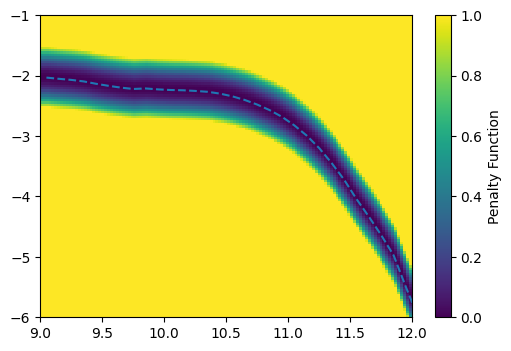
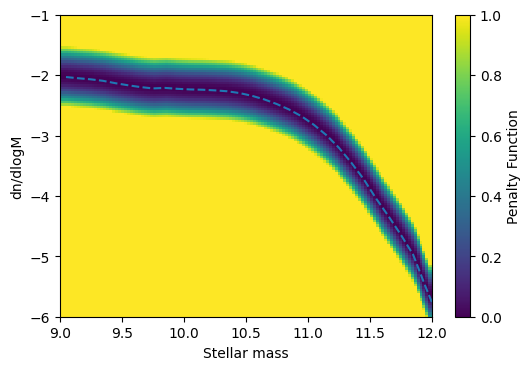
Minor changes, axis labels, typos, changes to text

Changed region(s): [[0.0, 0.0285, 0.998, 0.9687]]

diff --git a/paper/paper.md b/paper/paper.md
@@ -45,15 +45,15 @@ These parameters need to be tuned to calibrate against observational data.
 At odds with this, cosmological simulations are computationally expensive,
 with the cheapest viable runs costing thousands of CPU hours, and running up to
 tens of millions for the largest volumes at the highest resolutions.
-This makes the use of cosmological simulations in state of the of the art
+This makes the use of cosmological simulations in state-of-the-art
 fitting pipelines (e.g. MCMC), where tens of thousands to millions of
 evaluations of the model are required to explore the parameter space,
 computationally unfeasable. In order to get a statistical grip on the models
 of cosmology and galaxy formation, a better solution is needed.
 
 This problem is a major limiting factor in "calibration" of the sub-resolution
-(subgrid) models that are often used. Works like Illustris, EAGLE, BAHAMAS, and
-Illustris-TNG [@Vogelsberger2014; @Crain2015; @McCarthy2017; @Pillepich2018] are
+(subgrid) models that are often used. Works like Illustris [@Vogelsberger2014], 
+EAGLE [@Crain2015], BAHAMAS [@McCarthy2017], and Illustris-TNG [@Pillepich2018] are
 able to "match" observed relations by eye, but a statistical ground for the
 chosen parameters is missing. This poses a signifcant problem for cosmology,
 where a deeper understanding of our subgrid models will be required to
@@ -68,14 +68,14 @@ makes it feasable to use methods like MCMC based purely on simulation results.
 
 # Emulator Requirements
 
-For emulation in hydro simulations we are most interested in emulating
-scaling relations of the following form:
+For emulation in hydro simulations we want to use Gaussian processes to
+emulate scaling relations in the following form:
 
-$$f(x,\vec\theta)$$
+$$GP(y,x,\theta).$$
 
-where $x$ is the independent variable measured within the simulation
-itself, and $\vec\theta$ are the model parameters for that given 
-simulation. For each simulation many of these individual scaling relations can be
+We want to emulate scaling relations between a dependent variable $y$,
+as a function of the independent variable $x$ and the model parameters
+$\theta$. For each simulation many of these individual scaling relations can be
 calculated, for example the sizes of galaxies relative to their stellar mass,
 or the mass fraction of gas in galaxy clusters as a function of their mass. The
 individual object properties used in scaling realtions can be measured
@@ -86,10 +86,10 @@ for instance the energy injected by each supernovae.
 Using an emulator, we want to be able to see how many scaling relations
 change as a function of these parameters like the supernova strength.
 
-This distinction between the values obtained from
-the simulation and the parameters of the simulation model is absent
-when setting up a typical emulator, and hence setting up the training data
-correctly can pose a significant challenge.
+Emulators do not make a distinction between the independent $x$
+and the model parameters $theta$. An emulator will model $y$ as a
+function of the combined vector $\theta'=(x,\theta)$. Getting the training
+data in the correct format can pose a significant challenge.
 
 In order to save computational time, it is important
 to have an efficient sampling of the parameter space represented by $\vec\theta$. 
@@ -104,7 +104,7 @@ by hand, making proper use of emulators more difficult.
 
 # Why `swift-emulator`?
 
-Many packages cexist for Gausian process emulation, like
+Many packages exist for Gausian process emulation, like
 `george` (@Ambikasaran2015; this provides the basis for `swift-emulator`),
 `gpytorch` [@Gardner2018] and `GPy` [@gpy2014]. Additionally, a package like
 `pyDOE` [@pyDOE2012] can be used to set up efficient parameter samplings.
@@ -135,7 +135,7 @@ relations with other data, from a simple $\chi^2$ method to complex model
 discrepancy structures.
 
 `swift-emulator` is currently being used for two of the flagship simulation
-projects using the SWIFT simulation code, ranging accros five orders of 
+projects using the SWIFT simulation code, ranging across five orders of 
 magnitude in mass resolution. The package is being used to allow modern
 simulations to reporduce key observations with high accuracy.
 
@@ -149,10 +149,10 @@ project for the calibration of postprocessing models.
 # Acknowledgements
 
 We acknowledge support from the SWIFT collaboration whilst developing this
-project, with notable involvement from Richard Bower, Ian Vernon, and Matthieu
-Schaller. This work is partly funded by Vici grant 639.043.409 from the Dutch
-Research Council (NWO). This work used the DiRAC@Durham facility managed by the
-Institute for Computational Cosmology on behalf of the STFC DiRAC HPC Facility
+project, with notable involvement from Richard Bower, Ian Vernon, Joop Schaye, 
+and Matthieu Schaller. This work is partly funded by Vici grant 639.043.409 from 
+the Dutch Research Council (NWO). This work used the DiRAC@Durham facility managed 
+by the Institute for Computational Cosmology on behalf of the STFC DiRAC HPC Facility
 (www.dirac.ac.uk). The equipment was funded by BEIS capital funding via STFC
 capital grants ST/K00042X/1, ST/P002293/1, ST/R002371/1 and ST/S002502/1, Durham
 University and STFC operations grant ST/R000832/1. DiRAC is part of the National

diff --git a/docs/source/comparisons/index.rst b/docs/source/comparisons/index.rst
@@ -127,7 +127,7 @@ emulator and the data.
                                 ,independent_units=Msun
                                 ,dependent_units=Mpc**-3)
 
-    L2_penalty.plot_penalty(9,12,-6,-1,"penalty_example")
+    L2_penalty.plot_penalty(9,12,-6,-1,"penalty_example",x_label="Stellar mass",y_label="dn/dlogM")
 
 .. image:: penalty_example.png
 
@@ -218,7 +218,7 @@ term.
     my_penalty.register_observation(observation,log_independent=True,log_dependent=True
                                 ,independent_units=Msun,dependent_units=Mpc**-3)
 
-    my_penalty.plot_penalty(9,12,-6,-1,"my_penalty")
+    my_penalty.plot_penalty(9,12,-6,-1,"my_penalty",x_label="Stellar mass",y_label="dn/dlogM")
 
 .. image:: example_penalty_example.png
 

diff --git a/docs/source/getting_started/index.rst b/docs/source/getting_started/index.rst
@@ -186,11 +186,14 @@ model.
 .. code-block:: python
 
     import matplotlib.pyplot as plt
-    plt.plot(predict_x,pred)
+    plt.plot(predict_x,pred,label="Emulator")
     plt.plot(predict_x,log_schecter_function(predict_x,
                                             predictparams["log_M_star"]
                                             ,predictparams["alpha"])
-            ,color="black",ls=":")
+            ,color="black",ls=":",label="Model")
+    plt.xlabel("Stellar mass")
+    plt.ylabel("dn/dlogM")
+    plt.legend()
 
 Which shows that the emulator can predict the model with
 high accuracy.

diff --git a/docs/source/swift_io/data_loading.rst b/docs/source/swift_io/data_loading.rst
@@ -89,6 +89,8 @@ the x or y to be loaded in log-space.
 
 .. code-block:: python
 
+    from swiftemulator.io.swift import load_pipeline_outputs
+
     values, units = load_pipeline_outputs(
         filenames=data_filenames,
         scaling_relations=["stellar_mass_function_100"],
@@ -110,6 +112,8 @@ At this point the data is loaded and you can build
 and train your emulator.
 
 .. code-block:: python
+
+    from swiftemulator.emulators import gaussian_process
 
     emulator = GaussianProcessEmulator()
     emulator.fit_model(model_specification=spec,

diff --git a/docs/source/emulator_analysis/index.rst b/docs/source/emulator_analysis/index.rst
@@ -140,8 +140,10 @@ This is implemented into the SWIFT-Emulator with
     for mock_name in Mock_values.keys():
         plt.plot(Mock_values[mock_name]["independent"],
                 Mock_values[mock_name]["dependent"],
-                label = str(Mock_parameters[mock_name]["alpha"])[:4])
-        
+                label = "Alpha = " +str(Mock_parameters[mock_name]["alpha"])[:4])
+
+    plt.xlabel("Stellar mass")
+    plt.ylabel("dn/dlogM")    
     plt.legend()
     plt.savefig("parameter_sweep.png",dpi=200)
 

diff --git a/docs/source/swift_io/design.rst b/docs/source/swift_io/design.rst
@@ -90,7 +90,7 @@ parameter files from the example hypercube.
 
     write_parameter_files(
     filenames={
-        key: output_path / f"{key}.yml"
+        key: f"{output_path} / {key}.yml"
         for key in model_parameters.model_parameters.keys()
     },
     model_parameters=model_parameters,
